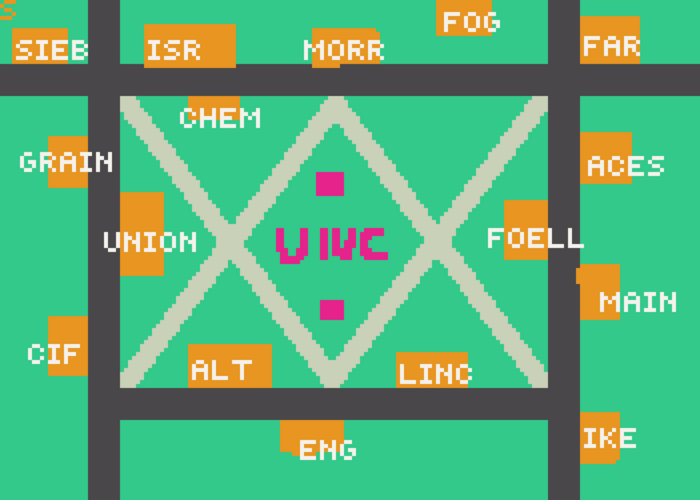
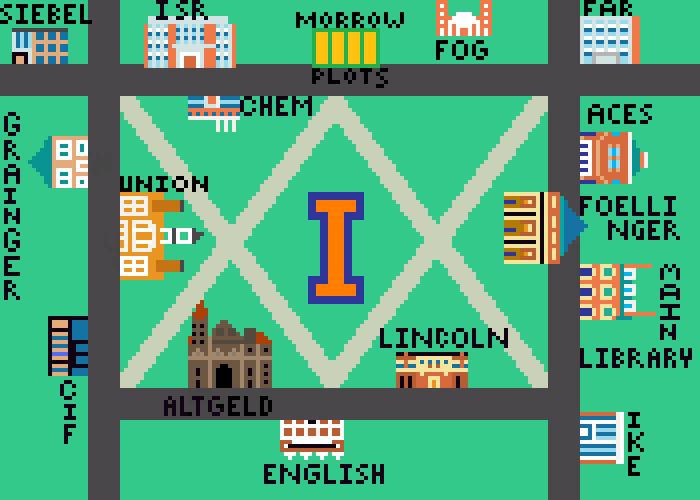
Made the text boxes align

diff --git a/main_page.html b/main_page.html
@@ -197,11 +197,11 @@
   let scene_pic;
   let curr_pic;
   let start_pic;
-  
+  let blink = false;
   function start() {
     start_pic = loadBackground("images/start_page.png");
     scene_pic = loadBackground("images/main_page_map.png");
-    curr_pic = scene_pic;
+    curr_pic = start_pic;
     setInterval(update, 20);  // infinite loop, runs every 2 ms
   }
 
@@ -244,11 +244,6 @@
     game_context.drawImage(img, sx=x, sy=y, swidth=width, sheight=height);
   }
 
-
-  /**
-   * Updates game visuals and stats.
-   */
-  
   class Buildings {
     constructor(x, y, width, height, fact, isDinHall) {
         this.x = x;
@@ -259,15 +254,12 @@
         this.given_hint = false;
         this.displayFact = false;
         this.highlight = false;
-    }
-
-    // clicked
-    update() {
-        if (!this.given_hint) {
-            coins++;
-            this.given_hint = true;
+        if(isDinHall){
+          this.highlight_color = "red";
         }
-        
+        else{
+          this.highlight_color = "#FFFF00";
+        }
     }
 
     display() {
@@ -281,34 +273,75 @@
 
     // highlight the building while mouse is inside
     highlight() {
-        game_context.fillStyle = "rgba(255, 255, 255, 0.5)";
+      if(this.highlight){
+        game_context.clearRect(this.x, this.y, this.width, this.height);
+        game_context.fillStyle = this.highlight_color;
         game_context.fillRect(this.x, this.y, this.width, this.height);
+      }
+    }
+
+    displayFact(){
+      if(this.displayFact){
+        game_context.clearRect(175, 125, 350, 250);
+        // set the color of the rectangle to light brown
+        game_context.fillStyle = "#F5DEB3";
+        game_context.fillRect(175, 125, 350, 250);
+        game_context.fillStyle = "#FFFFFF";
+        game_context.font ="bold 24px Arial";
+        game_context.textAlign = "center";
+        // display the fact in the middle of the rectangle
+        game_context.fillText(this.fact, 350, 300);
+      }
     }
 }
 
 
-  let coins = 0;
-  let union = new Buildings(121, 193, 43, 83, "How do data breaches happen? Turns out that human error plays a big role: in fact, one study found that human error was a major cause of 95% of data breaches. That’s why cybersecurity systems need to be careful about how much access they give users, to limit the damage they can cause.");
-  let altgeld = new Buildings(189, 345, 83, 43, "Cryptography is based on protecting information through different algorithms, or ways of encoding your messages. These algorithms usually have keys, specific values used to hide and then reveal information, and you either need to have those keys or spend millions of years to crack the code. The keys can be symmetric, where you encode and decode with the same value, or asymmetric, where you encode with a public key value and decode with a private key, only known by the receiver.");
-  let morrow = new Buildings(313, 29, 67, 40, "Are aliens real? Some people believe so, and think that crop circles contain hidden messages. If so, then maybe the reason we view it as a hoax is because we don’t have the tools to decrypt their codes, and if our cryptography methods got to the right point, maybe we’d be able to exchange messages back and forth. More likely, though, is that crop circles are man-made creations, but it’s a fun thought exercise.");
-  let english = new Buildings(281, 421, 63, 35, "What kinds of techniques can you use to break unknown codes? One way is to rely on the letter frequencies, both of individual and of combinations of letters. The most common English letter is ‘e’ and the least common is ‘z’, so if the frequencies in the coded text look different, you can use these proportions to try and crack substitution ciphers.");
-  let siebel = new Buildings(13, 29, 55, 35, "Where did malware start? The first computer worm was created in 1971 and called “Creeper”. It printed the message \"I'M THE CREEPER. CATCH ME IF YOU CAN!\" as it moved across the system. The second worm and first antivirus, Reaper, was created to delete Creeper.");
-  let grainger = new Buildings(49, 137, 39, 51, "Did you know that “phone phreaking” was the ancestor of hacking? In the 1960’s and 70’s, people would make noises that sounded like the tones phone operators used, fooling the system into letting them make free calls across the world. Famous “phone phreaks” include Steve Jobs and Steve Wozniak, the founders of Apple. Many phone phreaks later went on to become computer hackers during the 1980’s.");
-  let cif = new Buildings(49, 317, 39, 59, "Is computer security important for schools? The answer is yes, just like it is for all big organizations: they have a lot of systems and data that they need for their daily functioning, and if anything happens to those systems or data, it could cause major issues. One historical Illinois college, known as Lincoln college, was forced to shut down due to a combination of COVID and a bad ransomware attack. Another ransomware attack on the Baltimore County School Systems cost the schools 10 million and caused issues that lasted over a year. ");
-  let main = new Buildings(576, 265, 44, 55, "How do websites keep our information safe? OpenSSL is one of the most commonly used cryptographic libraries in the world, and is used by the majority of HTTPS websites. It allows people to safely communicate over computer networks without having to worry about other users eavesdropping, makes sure they’re talking to who they want to talk to, and keeps the data safe from being changed. OpenSSL is also open source, so the code behind OpenSSL is free for anyone to see and help add to.");
-  let aces = new Buildings(581, 133, 51, 51, "What are the most dangerous places to target with a cyberattack? You might think of banks or airplanes, but you probably didn’t consider the food industry. Our food chain is fragile, and if one link in that chain breaks it can cause major issues. And as the agriculture industry becomes more and more online, it’s also becoming a tempting target for ransomware, malware that encrypts data and asks for money to unlock it. That’s why some researchers are paying close attention to how to keep agriculture systems safe and secure.");
-  let chem = new Buildings(189, 97, 51, 23, "The future is quantum! Current cryptography methods rely on pure math and algorithms and are pretty difficult to break, taking a classical computer trillions of years to crack. If quantum computing becomes a reality, though, then all these combinations can be tested at the same time, making it easy to discover the right combination. That’s why researchers are currently working on new and innovative ways to harness quantum properties in new cryptographic algorithms, with the most famous known method being Quantum Key Distribution.");
-  let lincoln = new Buildings(397, 353, 71, 35, "What was the worst malware? Some might say “Mydoom”, the fastest spreading email virus and also the most expensive computer virus ever, costing an estimated $38 million. It was first found in 2004, but its aftereffects lasted till 2009. Even after multiple investigations and a $500,000 bounty, the original creator still is unknown.");
-  let follinger = new Buildings(505, 201, 43, 59, " If you voted on election day in 2022 in Champaign County, you may have noticed that voting seemed to be going particularly slowly. That was because of repeated DDOS attacks on the website and servers, causing connectivity issues. Denial of service attacks are attacks where a website is flooded with traffic until it can no longer handle it and is overwhelmed. If these attacks are all coming from one device, it’s easier to manage, but if there are many different devices all sending in requests, it’s harder to figure out which ones are malicious and to limit their requests. The second type is what’s called a distributed denial of service (DDos) attack.");
-  let building_array = [union, altgeld, morrow, english, siebel, grainger, cif, main, aces, chem, lincoln, follinger];
+  let union = new Buildings(121, 193, 43, 83, "How do data breaches happen? Turns out that human error plays a big role: in fact, one study found that human error was a major cause of 95% of data breaches. That’s why cybersecurity systems need to be careful about how much access they give users, to limit the damage they can cause.", false);
+  let altgeld = new Buildings(189, 345, 83, 43, "Cryptography is based on protecting information through different algorithms, or ways of encoding your messages. These algorithms usually have keys, specific values used to hide and then reveal information, and you either need to have those keys or spend millions of years to crack the code. The keys can be symmetric, where you encode and decode with the same value, or asymmetric, where you encode with a public key value and decode with a private key, only known by the receiver.", false);
+  let morrow = new Buildings(313, 29, 67, 40, "Are aliens real? Some people believe so, and think that crop circles contain hidden messages. If so, then maybe the reason we view it as a hoax is because we don’t have the tools to decrypt their codes, and if our cryptography methods got to the right point, maybe we’d be able to exchange messages back and forth. More likely, though, is that crop circles are man-made creations, but it’s a fun thought exercise.", false);
+  let english = new Buildings(281, 421, 63, 35, "What kinds of techniques can you use to break unknown codes? One way is to rely on the letter frequencies, both of individual and of combinations of letters. The most common English letter is ‘e’ and the least common is ‘z’, so if the frequencies in the coded text look different, you can use these proportions to try and crack substitution ciphers.",  false);
+  let siebel = new Buildings(13, 29, 55, 35, "Where did malware start? The first computer worm was created in 1971 and called “Creeper”. It printed the message \"I'M THE CREEPER. CATCH ME IF YOU CAN!\" as it moved across the system. The second worm and first antivirus, Reaper, was created to delete Creeper.", false);
+  let grainger = new Buildings(49, 137, 39, 51, "Did you know that “phone phreaking” was the ancestor of hacking? In the 1960’s and 70’s, people would make noises that sounded like the tones phone operators used, fooling the system into letting them make free calls across the world. Famous “phone phreaks” include Steve Jobs and Steve Wozniak, the founders of Apple. Many phone phreaks later went on to become computer hackers during the 1980’s.", false);
+  let cif = new Buildings(49, 317, 39, 59, "Is computer security important for schools? The answer is yes, just like it is for all big organizations: after all, they have a lot of sensitive systems and data that they rely on for their daily functioning. One historical Illinois college was forced to shut down due to a combination of COVID and a bad ransomware attack, and another ransomware attack on the Baltimore County School Systems cost the schools 10 million and caused issues that lasted over a year. ", false);
+  let main = new Buildings(576, 265, 44, 55, "How do websites keep our information safe? OpenSSL is one of the most commonly used cryptographic libraries in the world, and is used by the majority of HTTPS websites. It allows people to safely communicate over computer networks without having to worry about other users eavesdropping, makes sure they’re talking to who they want to talk to, and keeps the data safe from being changed. OpenSSL is also open source, so anyone can help make OpenSSL better!", false);
+  let aces = new Buildings(581, 133, 51, 51, "What are the most dangerous places to target with a cyberattack? You might think of banks or airplanes, but you probably didn’t consider the food industry. Our food chain is fragile, and as the agriculture industry becomes more and more online, it’s also becoming a tempting target for ransomware, malware that encrypts data and asks for money to unlock it. That’s why some researchers are paying close attention to how to keep agriculture systems safe and secure.", false);
+  let chem = new Buildings(189, 97, 51, 23, "The future is quantum! Current cryptography methods rely on pure math and algorithms and are pretty difficult to break, taking a classical computer trillions of years to crack. If quantum computing becomes a reality, though, then all these combinations can be tested at the same time, making it easy to discover the right combination. That’s why researchers are currently working on new and innovative ways to harness quantum properties in new cryptographic algorithms.", false);
+  let lincoln = new Buildings(397, 353, 71, 35, "What was the worst malware? Some might say “Mydoom”, the fastest spreading email virus and also the most expensive computer virus ever, costing an estimated $38 million. It was first found in 2004, but its aftereffects lasted till 2009. Even after multiple investigations and a $500,000 bounty, the original creator still is unknown.", false);
+  let follinger = new Buildings(505, 201, 43, 59, " If you voted on election day in 2022 in Champaign County, you may have noticed that voting seemed to be going particularly slowly. That was because of repeated DDOS (distributed denial of service) attacks on the website and servers, causing connectivity issues. Denial of service attacks are attacks where a website is flooded with traffic until it is overwhelmed, and when these attacks are spread over many different devices, it's even harder to filter out.", false);
+  let ISR = new Buildings(144, 24, 92, 44, "", true);
+  let FAR = new Buildings(580, 16, 60, 48, "", true);
+  let IKE = new Buildings(580, 412, 40, 52, "", true);
+  let FOG = new Buildings(436, 0, 56, 36, "", true);
+  let building_array = [union, altgeld, morrow, english, siebel, grainger, cif, main, aces, chem, lincoln, follinger, ISR, FAR, IKE, FOG];
+
 
   function clearCanvas() {
     // clears everything on the canvas
     game_context.clearRect(0, 0, 700, 500);
   }
 
-  
-  const originalData = game_context.getImageData(0, 0, game_canvas.width, game_canvas.height);
+  function wrapText(text, mid_x, mid_y, max_width, height) {
+    let words = text.split(' ');
+    let lines = []
+    let line = '';
+
+    for(let n = 0; n < words.length; n++) {
+      let check = line + words[n] + ' ';
+      let w = game_context.measureText(check).width;
+      if (w > max_width && n > 0) {
+        lines.push(line);
+        line = words[n] + ' ';
+        y += height;
+      }
+      else {
+        line = check;
+      }
+    }
+    lines.push(line);
+    for (let i = 0; i<lines.length; i++){
+      game_context.fillText(lines[i], mid_x, mid_y + (height*(2 * i + 1 - lines.length)));
+    }
+  }
 
   // call highlight function when mouse is over a building
   //this only works when the mouse moves, you want to maintain the hovering and unhover if we move off a
@@ -329,15 +362,25 @@
 
   // Add a mouseout listener to restore the original canvas data
   game_canvas.addEventListener('mouseout', (evt) => {
-    game_context.putImageData(originalData, 0, 0);
+    building_array.forEach(building => {
+      building.displayFact = false;
+      building.highlight = false;
+    });
   });
+  document.addEventListener('keydown', logKey)
+
+function logKey(key) {
+  if (key.code === "Enter" && curr_pic == start_pic) {
+    curr_pic = scene_pic;
+  }
+}
+
 
   game_canvas.addEventListener("click", (evt) => {
     x = evt.pageX - game_canvas.offsetLeft;
     y = evt.pageY - game_canvas.offsetTop;
     building_array.forEach(building => {
-      if(building.isInside(x, y)){
-        building.update();
+      if(building.isInside(x, y) && !(building.highlight_color == "red")){
         building.displayFact = true;
       }
       else{
@@ -346,51 +389,61 @@
     });
   }, false);
 
-  /**
- * 
- * Highlights buildings on the canvas when the mouse hovers over them.
- * @param canvas game canvas
- * @param x x-coordinate of the building
- * @param y y-coordinate of the building
- * @param width width of the building
- * @param height height of the building
- * @param highlightColor color we want to highlight the building with
- */
-function highlightOnHover(canvas, x, y, width, height, highlightColor) {
-  console.log("highlighted" + x);
-}
-
-function drawSpeechBubble(text){
-  //draw circle
-  //draw text
-}
-
+let total_blinks = 0;
 function update() {
     // step 1 - clear the canvas
     clearCanvas();
     draw(curr_pic, 0, 0, 700, 500);
-    //step 2 - draw buildings and/or display facts
+    if(curr_pic == start_pic){
+      game_context.fillStyle = "#FFFFFF";
+      game_context.font ="24px Serif";
+      game_context.textAlign = "center";
+      game_context.fillText("Cybersecurity Dinner", 350, 390);
+      game_context.font ="34px Serif";
+      game_context.fillText("Adventure", 350, 430);
+      if(blink==true){
+        game_context.fillStyle = "#FFFFFF";
+        game_context.font ="bold 24px Arial";
+        
+        // display the fact in the middle of the rectangle
+        game_context.fillText("Press Enter To Start", 350, 470);
+        if(total_blinks < 30){ total_blinks ++;}
+        else{ 
+          blink = false;
+          total_blinks = 0;
+        }
+      }
+      else{
+        if(total_blinks < 20){ total_blinks ++;}
+        else{ 
+          blink = true;
+          total_blinks = 0;
+        }
+      }
+    }
+    else{
     building_array.forEach(b => {
       if(b.highlight){
-        game_context.clearRect(b.x, b.y, b.width, b.height);
-        game_context.fillStyle = "#FFFF00";
+        //game_context.clearRect(b.x, b.y, b.width, b.height);
+        game_context.fillStyle = b.highlight_color;
+        game_context.globalAlpha = 0.8;
         game_context.fillRect(b.x, b.y, b.width, b.height);
+        game_context.globalAlpha = 1.0;
       }
       if(b.displayFact){
         game_context.clearRect(175, 125, 350, 250);
         // set the color of the rectangle to light brown
         game_context.fillStyle = "#F5DEB3";
-        game_context.fillRect(175, 125, 350, 250);
-        game_context.fillStyle = "#FFFFFF";
-        game_context.font ="bold 24px Arial";
+        game_context.fillRect(125, 75, 400, 320);
+        game_context.fillStyle = "#36454F";
+        game_context.font ="bold 16px Arial";
         game_context.textAlign = "center";
-        // display the fact in the middle of the rectangle
-        game_context.fillText(b.fact, 350, 300);
+        wrapText(b.fact, 325, 235, 395, 15);
       }
     });
-    
-  
   }
+    
+}
 
 </script>
 
